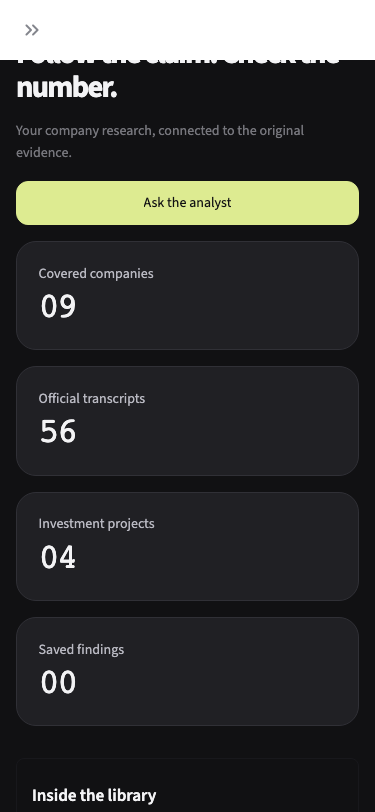
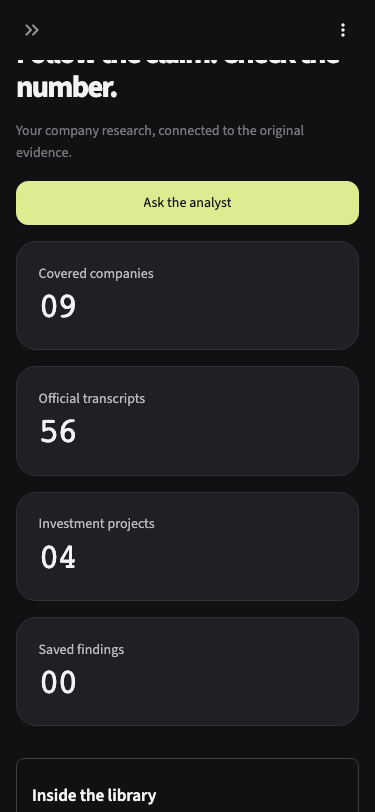
Select Vercel API binding by default and record cited preview verification

Changed region(s): [[0.0, 0.0, 1.0, 0.0924]]

diff --git a/ui/tests/test_hosting.py b/ui/tests/test_hosting.py
@@ -22,3 +22,12 @@ def test_local_api_origin(monkeypatch):
     monkeypatch.delenv('API_PROVIDER', raising=False)
     monkeypatch.setenv('API_ORIGIN', 'http://127.0.0.1:8000/')
     assert client.api_origin() == 'http://127.0.0.1:8000'
+
+
+def test_deployment_binding_is_default_without_an_override(monkeypatch):
+    monkeypatch.delenv('API_PROVIDER', raising=False)
+    monkeypatch.setenv('ANALYST_INTERNAL_URL', 'https://deployment.example')
+    assert client.api_origin() == 'https://deployment.example'
+    monkeypatch.setenv('API_PROVIDER', 'local')
+    monkeypatch.setenv('API_ORIGIN', 'https://rollback.example')
+    assert client.api_origin() == 'https://rollback.example'

diff --git a/server.py b/server.py
@@ -24,7 +24,7 @@ async def health(request):
     return JSONResponse({'status': 'ok', 'interface': 'streamlit',
                          'theme': config.get_option('theme.base'),
                          'primary_color': config.get_option('theme.primaryColor'),
-                         'api_provider': os.getenv('API_PROVIDER', 'local'),
+                         'api_provider': os.getenv('API_PROVIDER', 'vercel' if os.getenv('ANALYST_INTERNAL_URL') else 'local'),
                          'api_binding_configured': bool(os.getenv('ANALYST_INTERNAL_URL')),
                          'commit': os.getenv('VERCEL_GIT_COMMIT_SHA', 'local')})
 

diff --git a/ui/client.py b/ui/client.py
@@ -11,7 +11,7 @@ class AnalystError(Exception):
 
 def api_origin():
     """Select the deployment binding explicitly; never silently call an old host."""
-    if os.getenv("API_PROVIDER") == "vercel":
+    if os.getenv("API_PROVIDER", "vercel" if os.getenv("ANALYST_INTERNAL_URL") else "local") == "vercel":
         origin = os.getenv("ANALYST_INTERNAL_URL", "")
         if not origin:
             raise AnalystError("The Vercel analyst binding is not configured.")

diff --git a/docs/DEPLOYMENT.md b/docs/DEPLOYMENT.md
@@ -24,7 +24,7 @@ For local containers, `docker compose up --build` starts both Python services. T
 
 `vercel.json` now defines `web` (Python ASGI Streamlit) and `analyst` (the container in root `Dockerfile.api`). Vercel Services and Container Runtime are beta. The container bakes the original FastEmbed/ONNX models into its image instead of downloading them on a user's request. Use project `PORT=8000`. The Dockerfile must remain at repository root because the container builder uses its directory as the build context.
 
-Set `SUPABASE_DB_URL`, `GEMINI_API_KEY`, `GEMINI_MODEL`, optional `GEMINI_FALLBACK_MODEL` and the existing `API_ACCESS_TOKEN` for Production and Preview. Set `API_PROVIDER=vercel` only in the target environment when testing/cutting over. Vercel injects `ANALYST_INTERNAL_URL` from the service binding; never invent its value. Leaving the provider unset retains `API_ORIGIN` for rollback. `/backend/health` and `/backend/docs` expose the API's read-only status/documentation; POST routes retain bearer authentication.
+Set `SUPABASE_DB_URL`, `GEMINI_API_KEY`, `GEMINI_MODEL`, optional `GEMINI_FALLBACK_MODEL` and the existing `API_ACCESS_TOKEN` for Production and Preview. The UI selects the binding automatically when it is present; `API_PROVIDER=vercel` can require it explicitly. Vercel injects `ANALYST_INTERNAL_URL` from the service binding; never invent its value. Set `API_PROVIDER=local` to use `API_ORIGIN` for rollback. `/backend/health` and `/backend/docs` expose the API's read-only status/documentation; POST routes retain bearer authentication.
 
 `Dockerfile.api` selects `USAGE_BACKEND=postgres` and `API_ROOT_PATH=/backend`. The first budget reservation safely creates the counter table with row-level security (versioned SQL in `db/migrations`). The database role must own that table and have permission to create it. Budget failures are closed with 503, exhausted quotas with 429. SQLite remains available for the original single-instance local/Render setup.
 

diff --git a/README.md b/README.md
@@ -55,6 +55,10 @@ flowchart LR
     Snapshots[Reviewed committed JSON snapshots] --> UI
 ```
 
+## Hosting
+
+The Streamlit dashboard and FastAPI API deploy together on Vercel using its beta Services and Container Runtime. The Python UI calls a private deployment binding; the API retains server-only bearer authentication and stores its shared daily request budget in Supabase Postgres. Models are baked into the API image. Vercel can still scale down idle instances; this is not an always-on guarantee. Render remains available for rollback. See [deployment details](docs/DEPLOYMENT.md).
+
 ## Tests and containers
 
 ```bash
@@ -69,7 +73,7 @@ docker compose up --build
 
 Compose exposes the Streamlit UI on port 8501; its API stays internal. PostgreSQL is external. Database integration tests require a separate throwaway local `TEST_DATABASE_URL` and may drop its test schema. See [local setup](docs/LOCAL_DEVELOPMENT.md).
 
-CI now runs Python backend tests and Streamlit tests, and builds the Streamlit image. Earlier Playwright tests belonged to the removed React UI and are not presented as tests of this version. Current CI results: [Actions on main](https://github.com/aaranarc/earnings-call-analyst/actions/workflows/ci.yml?query=branch%3Amain) (check the commit on a run before associating it with a release).
+CI runs Python backend tests (including a disposable Postgres counter test), Streamlit tests, and builds both API and Streamlit images. Earlier Playwright tests belonged to the removed React UI and are not presented as tests of this version. Current CI results: [Actions on main](https://github.com/aaranarc/earnings-call-analyst/actions/workflows/ci.yml?query=branch%3Amain) (check the commit on a run before associating it with a release).
 
 ## Evidence and limits
 

diff --git a/docs/LEARNING.md b/docs/LEARNING.md
@@ -65,7 +65,7 @@ Research exports use Base64 to put JSON safely inside a download link. Base64 is
 
 A container packages Python, its libraries and the embedding/reranker model files. `Dockerfile.api` uses the same pipeline as the Render Dockerfile; Vercel starts that HTTP server when it needs an instance. Containers can still scale down, so this is not a promise of an always-on server.
 
-`vercel.json` defines the existing Streamlit UI and FastAPI API as two services in one deployment. The UI's `ui/client.py` reads a private, deployment-specific `ANALYST_INTERNAL_URL` binding when `API_PROVIDER=vercel`. It sends the server-only bearer token; bindings provide connectivity, not authentication. The browser never receives the database URL, Gemini key or API token.
+`vercel.json` defines the existing Streamlit UI and FastAPI API as two services in one deployment. The UI's `ui/client.py` reads a private, deployment-specific `ANALYST_INTERNAL_URL` binding when available (or explicitly required by `API_PROVIDER=vercel`). It sends the server-only bearer token; bindings provide connectivity, not authentication. The browser never receives the database URL, Gemini key or API token.
 
 An instance's local files do not provide a shared request counter across instances. `backend/quantrag/usage.py` therefore reserves request units atomically in Postgres on Vercel. The small additive migration in `db/migrations/20261104_api_daily_usage.sql` creates only the counter table and enables row-level security; the server initializes it idempotently on the first reservation. A database failure returns a safe 503 and prevents an unbudgeted model call.
 
